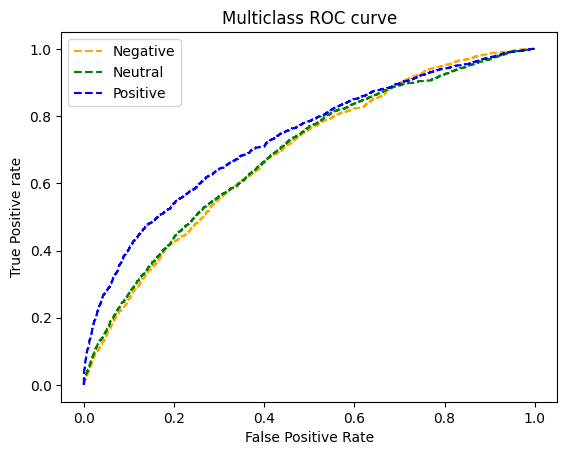
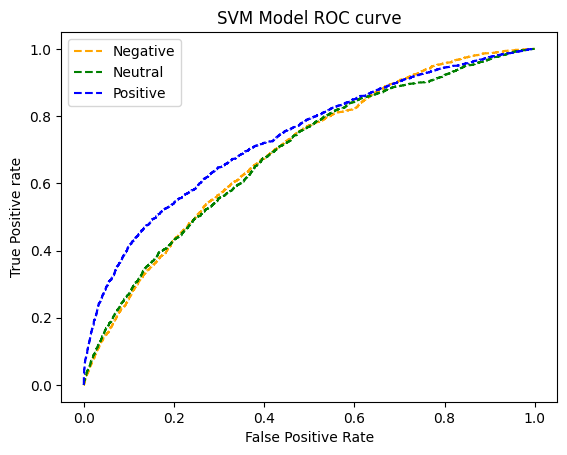
generate roc curve images

diff --git a/utils/functions.py b/utils/functions.py
@@ -141,7 +141,7 @@ intervals = (
 )
 
 
-def display_time(seconds, granularity=2):
+def display_time(seconds, granularity=3):
     result = []
 
     for name, count in intervals:
@@ -155,8 +155,13 @@ def display_time(seconds, granularity=2):
 
 
 def compute_elapsed_time(start_time, end_time, model_name):
+    print('Start Time', start_time)
+    print('End Time', end_time)
     elapsed_time = end_time - start_time
-    print(model_name + ' Elapsed Time : ' + str(display_time(elapsed_time)))
+    print('Elapsed Time', elapsed_time)
+    timed = display_time(elapsed_time)
+    print(timed)
+    print(model_name + ' Elapsed Time : ' + str(timed))
 
 
 def save_models(model, model_name):

diff --git a/models/machine_learning/LogisticRegressionModel.py b/models/machine_learning/LogisticRegressionModel.py
@@ -27,9 +27,9 @@ class LogisticRegressionModel:
         )
         model.fit(self.x_train, self.y_train)
         save_models(model, self.model_name)
-        y_score = model.fit(self.x_train, self.y_train).decision_function(self.x_test)
+        score = model.fit(self.x_train, self.y_train).decision_function(self.x_test)
         predictions = model.predict(self.x_test)
         Point = collections.namedtuple('Point', ['prediction', 'score'])
         end_time = time.time()
         compute_elapsed_time(start_time, end_time, self.model_name)
-        return Point(prediction=predictions, score=y_score)
+        return Point(prediction=predictions, score=score)

diff --git a/models/neural/MLPClassifierModel.py b/models/neural/MLPClassifierModel.py
@@ -31,9 +31,10 @@ class MLPClassifierModel:
             learning_rate=self.param_space.get('learning_rate'),
             max_iter=self.param_space.get('max_iter'))
         model.fit(self.x_train, self.y_train)
+        score = model.predict_proba(self.x_test)
         save_models(model, self.model_name)
         predictions = model.predict(self.x_test)
         Point = collections.namedtuple('Point', ['prediction', 'score'])
         end_time = time.time()
         compute_elapsed_time(start_time, end_time, self.model_name)
-        return Point(prediction=predictions, score=None)
+        return Point(prediction=predictions, score=score)

diff --git a/models/machine_learning/GaussianNBModel.py b/models/machine_learning/GaussianNBModel.py
@@ -29,9 +29,10 @@ class GaussianNBModel:
         # nb_model_tuning(self.x_train, self.y_train)
         model = MultinomialNB(alpha=self.param_space.get('alpha'))
         model.fit(self.x_train, self.y_train)
+        score = model.predict_proba(self.x_test)
         save_models(model, self.model_name)
         predictions = model.predict(self.x_test)
         Point = collections.namedtuple('Point', ['prediction', 'score'])
         end_time = time.time()
         compute_elapsed_time(start_time, end_time, self.model_name)
-        return Point(prediction=predictions, score=None)
+        return Point(prediction=predictions, score=score)

diff --git a/models/machine_learning/SvmModel.py b/models/machine_learning/SvmModel.py
@@ -24,8 +24,8 @@ class SvmModel:
         model.fit(self.x_train, self.y_train)
         save_models(model, self.model_name)
         predictions = model.predict(self.x_test)
-        y_score = model.fit(self.x_train, self.y_train).decision_function(self.x_test)
+        score = model.fit(self.x_train, self.y_train).decision_function(self.x_test)
         Point = collections.namedtuple('Point', ['prediction', 'score'])
         end_time = time.time()
         compute_elapsed_time(start_time, end_time, self.model_name)
-        return Point(prediction=predictions, score=y_score)
+        return Point(prediction=predictions, score=score)

diff --git a/models/machine_learning/DecisionTreeModel.py b/models/machine_learning/DecisionTreeModel.py
@@ -25,9 +25,10 @@ class DecisionTreeModel:
             min_samples_split=self.param_space.get('min_samples_split')
         )
         model.fit(self.x_train, self.y_train)
+        score = model.predict_proba(self.x_test)
         save_models(model, self.model_name)
         predictions = model.predict(self.x_test)
         end_time = time.time()
         compute_elapsed_time(start_time, end_time, self.model_name)
         Point = collections.namedtuple('Point', ['prediction', 'score'])
-        return Point(prediction=predictions, score=None)
+        return Point(prediction=predictions, score=score)

diff --git a/models/machine_learning/KNeighborsModel.py b/models/machine_learning/KNeighborsModel.py
@@ -25,9 +25,10 @@ class KNeighborsModel:
             weights=self.param_space.get('weights')
         )
         model.fit(self.x_train, self.y_train)
+        score = model.predict_proba(self.x_test)
         save_models(model, self.model_name)
         predictions = model.predict(self.x_test)
         Point = collections.namedtuple('Point', ['prediction', 'score'])
         end_time = time.time()
         compute_elapsed_time(start_time, end_time, self.model_name)
-        return Point(prediction=predictions, score=None)
+        return Point(prediction=predictions, score=score)

diff --git a/utils/ComposeMetrics.py b/utils/ComposeMetrics.py
@@ -93,7 +93,7 @@ class ComposeMetrics:
         plt.plot(fpr[0], tpr[0], linestyle='--', color='orange', label='Negative')
         plt.plot(fpr[1], tpr[1], linestyle='--', color='green', label='Neutral')
         plt.plot(fpr[2], tpr[2], linestyle='--', color='blue', label='Positive')
-        plt.title('Multiclass ROC curve')
+        plt.title(self.model_name + ' ROC curve')
         plt.xlabel('False Positive Rate')
         plt.ylabel('True Positive rate')
         plt.legend(loc='best')
